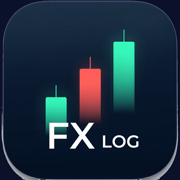
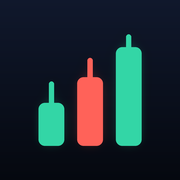
アイコンから「FX LOG」の文字を外し、LP側は先に差し替える
現行の assets/icon.png には「FX LOG」という文字が焼き込まれており、これが
ブランド名の4番目の表記になっていた（FX Trade Journal / FXトレードログ /
旧 FX Trade Log に加えて）。全ユーザーのホーム画面に常時出る、最も強い
ブランド面がこれだった。文字入りアイコンは多言語アプリでは構造的に不利で、
小さいサイズでは潰れて読めない。

scripts/make-icon.py で assets/icon-v2.png を生成する。

- 文字を外し、LPのブランドマークと同じローソク足だけにする
- **角丸なし・フルブリードの正方形**にする。現行は角丸と外周グローがPNGに
  焼き込まれており、iOSがさらにsquircleでマスクするため二重角丸の縁が出ていた
- グローは図形の内側だけに置き、外周には出さない
- 60px に縮小しても3本が判別できることを確認した

**アプリ側はまだ配線していない。** app.json の icon は現行のまま。
次の機能リリースで差し替える方針（本人判断）で、急ぎのパッチリリースで
意図せずアイコンが変わらないようにするため。

**LPの favicon / manifest アイコンは先に差し替えた。** こちらはビルド不要で
即時反映でき、それまでブラウザのタブとPWAのホーム画面アイコンが「FX LOG」を
出し続けていた。あわせて 214KB → 28KB に縮んだ（元は1024pxをそのまま縮小した
ものだった）。

HTML と manifest.json が参照する資産の実在確認もテストに追加した。
1つ欠けても表示が壊れるが、html-validate は存在までは見ない。

diff --git a/scripts/__tests__/lpPages.test.ts b/scripts/__tests__/lpPages.test.ts
@@ -490,3 +490,27 @@ describe('デスクトップ向けのQR', () => {
     expect(css).toMatch(/@media \(max-width:720px\)\{ \.cta-qr\{display:none;\} \}/);
   });
 });
+
+describe('参照している資産が実在する', () => {
+  it('HTML から参照している lp-assets の資産がすべて存在する', () => {
+    // favicon・manifestアイコン・スクショ・QR・OGP。1つでも欠けると
+    // 表示が壊れるが、html-validate は存在までは見ない。
+    const missing: string[] = [];
+    for (const file of readdirSync(ROOT).filter((f) => f.endsWith('.html'))) {
+      const html = readFileSync(join(ROOT, file), 'utf8');
+      for (const m of html.matchAll(/(?:src|href|srcset)="((?:\.\/)?lp-assets\/[^"]+)"/g)) {
+        const rel = m[1].replace(/^\.\//, '');
+        if (!existsSync(join(ROOT, rel))) missing.push(`${file}: ${rel}`);
+      }
+    }
+    expect(missing).toEqual([]);
+  });
+
+  it('manifest.json のアイコンが実在する', () => {
+    const manifest = JSON.parse(readFileSync(join(ROOT, 'manifest.json'), 'utf8'));
+    const missing = (manifest.icons ?? [])
+      .map((i: any) => i.src)
+      .filter((src: string) => !existsSync(join(ROOT, src)));
+    expect(missing).toEqual([]);
+  });
+});

diff --git a/scripts/make-icon.py b/scripts/make-icon.py
@@ -1,0 +1,86 @@
+#!/usr/bin/env python3
+"""アプリアイコンを生成する（文字なし・フルブリード）。
+
+現行の `assets/icon.png` には「FX LOG」という文字が焼き込まれている。これは:
+- 全ユーザーのホーム画面に常時出る、最も強いブランド面
+- 同じ画像が favicon / apple-touch-icon にも使われている
+- ブランド名の4番目の表記（FX Trade Journal / FXトレードログ / 旧 FX Trade Log に加えて）
+
+文字入りアイコンは多言語アプリでは構造的に不利で、小さいサイズでは潰れて読めない。
+また現行アイコンは**角丸と外周グローがPNGに焼き込まれており**、iOS がさらに
+squircle でマスクするため二重角丸の縁が出る。
+
+そこで:
+- 文字を外し、ローソク足だけにする（LPのブランドマークと同じ形）
+- **角丸なし・フルブリードの正方形**にする（マスクはOSに任せる）
+- グローは焼き込まない
+
+必要: Pillow（このリポジトリの依存ではない。ローカル専用のツール）
+使い方: python3 scripts/make-icon.py
+"""
+import os
+from PIL import Image, ImageDraw, ImageFilter
+
+ROOT = os.path.join(os.path.dirname(__file__), '..')
+S = 1024
+# アプリのダークテーマと同系。上が少し明るい斜めのグラデーション。
+BG_TOP, BG_BOTTOM = (16, 24, 44), (5, 8, 15)
+PROFIT = (51, 214, 166)   # --profit-large
+LOSS = (255, 98, 89)      # --loss-large
+
+# LPの brand-mark と同じ 32x32 のビューボックス
+BARS = [
+    (6.4, 12, 1.2, 6, PROFIT), (4, 17, 6, 10, PROFIT),
+    (15.4, 6.5, 1.2, 5, LOSS), (13, 11, 6, 16, LOSS),
+    (24.4, 1, 1.2, 4, PROFIT), (22, 4, 6, 23, PROFIT),
+]
+CONTENT = 0.62   # キャンバスに対する図形の占有率。squircle マスクで欠けない範囲
+
+
+def main():
+    # 背景
+    bg = Image.new('RGB', (S, S), BG_BOTTOM)
+    d = ImageDraw.Draw(bg)
+    for y in range(S):
+        t = y / (S - 1)
+        d.line([(0, y), (S, y)], fill=tuple(
+            round(BG_TOP[i] + (BG_BOTTOM[i] - BG_TOP[i]) * t) for i in range(3)))
+
+    # ローソク足。ビューボックスの実効範囲 x:4..28, y:1..27 を中央に置く
+    vx0, vy0, vx1, vy1 = 4.0, 1.0, 28.0, 27.0
+    scale = S * CONTENT / max(vx1 - vx0, vy1 - vy0)
+    ox = (S - (vx1 - vx0) * scale) / 2 - vx0 * scale
+    oy = (S - (vy1 - vy0) * scale) / 2 - vy0 * scale
+
+    shapes = Image.new('RGBA', (S, S), (0, 0, 0, 0))
+    sd = ImageDraw.Draw(shapes)
+    for x, y, w, h, color in BARS:
+        box = [ox + x * scale, oy + y * scale, ox + (x + w) * scale, oy + (y + h) * scale]
+        sd.rounded_rectangle(box, radius=max(2, int(1.5 * scale)), fill=color + (255,))
+
+    # 図形の色をわずかに広げた光。**背景の一部**として置くので、
+    # アイコンの外周には出ない（外周グローを焼き込まない）。
+    glow = shapes.filter(ImageFilter.GaussianBlur(S * 0.035))
+    glow.putalpha(glow.getchannel('A').point(lambda a: int(a * 0.45)))
+
+    out = bg.convert('RGBA')
+    out.alpha_composite(glow)
+    out.alpha_composite(shapes)
+    out = out.convert('RGB')   # アイコンにアルファは持たせない（Appleの要件）
+
+    p = os.path.join(ROOT, 'assets', 'icon-v2.png')
+    out.save(p, optimize=True)
+    print(f'  {p}  {out.size}  {os.path.getsize(p)//1024} KB  mode={out.mode}')
+
+    # 小さいサイズでの見え方を確認するための縮小版
+    prev = Image.new('RGB', (60 + 120 + 180 + 40, 200), (24, 24, 24))
+    x = 10
+    for n in (60, 120, 180):
+        prev.paste(out.resize((n, n), Image.LANCZOS), (x, (200 - n) // 2))
+        x += n + 10
+    prev.save(os.path.join(ROOT, '..', 'icon-preview.png'))
+    print('  縮小プレビュー: Desktop/FXlog/icon-preview.png（60 / 120 / 180 px）')
+
+
+if __name__ == '__main__':
+    main()

diff --git a/CLAUDE.md b/CLAUDE.md
@@ -128,6 +128,8 @@ npx jest src/utils/__tests__/paywallCalc.test.ts   # single test file
   - **gtag.js は head に静的に置かない。** 同意を拒否した人でも取得リクエストが Google に飛び、IP・User-Agent・Referer が渡るため。`consent.js` の `startMeasurement()` が同意後に `<script>` を動的に作る。フッターの「アクセス解析の設定」（`id="consentReset"`）で撤回でき、`_ga` Cookie も失効させる。撤回導線はLPと使い方ガイドにしか無い（法務ページはGAを積んでいない）ので、ポリシー15節からはLPへリンクしている。
   - **LPの色トークンはアプリの `src/theme/colors.ts` と同じ考え方に揃えてある（2026-09-09）。** アクセント塗りの上の前景は `--on-accent`（`color:#fff` を直書きしない。ダークで白は 3.71:1 しか出ない）。ライトの `--profit`/`--loss` は AA を満たすまで濃くした結果、両者の輝度がほぼ同じ（相互比 1.00）になるため、**ローソク足の描画には `--profit-large`/`--loss-large` を使う**（`main.js` の `getVar`）。文字に `*-large` を使わないこと（4.5:1 に届かない）。`lpPages.test.ts` がティント合成込みで固定している。
   - **モックの成績数値は 勝率62% / PF1.50 / +84pips / 13件（8勝5敗）で11言語共通。** 旧値（78% / PF7.75）は現実のFXとして極端で、打消し表示が必要な水準だった。`sample-note` は5箇所（ヒーローの浮きバッジ・スマホ枠・分析・シェアカード・ウィジェット）。浮きバッジは `.hero-visual`（flex）の中で絶対配置されており、注記も `.chip-note` で絶対配置にしないとモックを押しのける。
+  - **アプリアイコンは `assets/icon-v2.png` を用意してあるが、まだ配線していない（2026-09-10）。** 現行の `assets/icon.png` には**「FX LOG」という文字が焼き込まれており**、これがブランド名の4番目の表記になっていた（全ユーザーのホーム画面に常時出る、最も強いブランド面）。v2 は文字を外してローソク足だけにし、**角丸と外周グローも焼き込んでいない**（現行は焼き込まれており、iOSがさらにsquircleでマスクするため二重角丸の縁が出る）。生成は `scripts/make-icon.py`。**次の機能リリースで `app.json` の `icon` を差し替える**（本人判断で「相乗り」と決定）。急ぎのパッチリリースで意図せず変わらないよう、あえて配線していない。
+  - **LPの favicon / manifest アイコンは v2 に差し替え済み（2026-09-10）。** こちらはビルド不要で即時反映できる。差し替え前はブラウザのタブとPWAのホーム画面アイコンが「FX LOG」を出し続けていた。あわせてファイルサイズが 214KB → 28KB になった（元は1024pxのアイコンをそのまま縮小したものだった）。
   - **git履歴の書き換えを実施した（2026-09-10）。** 自宅住所が**非日本語10言語のプライバシーポリシー**に、氏名+メール+電話が `store.config.json` に残っていた（当初「住所5コミット・電話2コミット」と見積もっていたのは過少）。`git filter-repo --replace-text` を2回に分けて実行し、main と dependabot の8ブランチを force-push した。**素の `git clone` で全2,603ブロブを走査して検出ゼロを確認済み。**
     - **2回目の置換が要った理由**: 過去の版の `scripts/__tests__/legalDocs.test.ts` が、検出用の正規表現に**住所・郵便番号・電話の形をリテラルで書いていた**（後に分割文字列へ直した経緯そのものが履歴に残っていた）。1回目はHTMLの住所行しか置換していないので取り残した。**PII を消す作業では、消すためのコード自身も対象になりうる。**
     - 誤検出を1件除外した。ウィジェットの `$widgetBackground.colorset/Contents.json` の色値が携帯番号の正規表現に当たっていた。置換していたら資産が壊れていた。**置換ルールは適用前に、当たるパスを必ず列挙して確認すること。**
